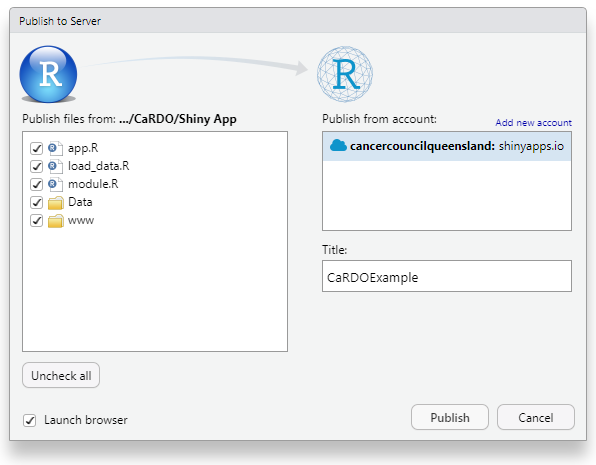
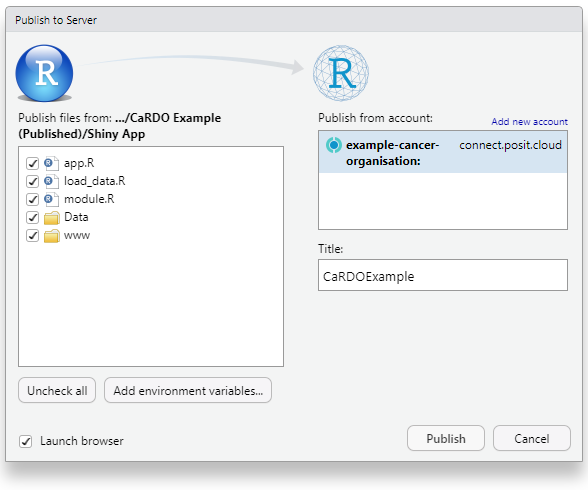
Add files via upload

Changed region(s): [[0.0, 0.0, 1.0, 0.9634]]

diff --git a/publishing.html b/publishing.html
@@ -214,33 +214,32 @@ div.csl-indent {
 <div id="publishing" class="section level1 hasAnchor" number="7">
 <h1><span class="header-section-number">Chapter 7</span> Publishing<a href="publishing.html#publishing" class="anchor-section" aria-label="Anchor link to header"></a></h1>
 <p>Once you have created a dashboard, you will need to decide how to publish it to allow users to access your dashboard and explore cancer patterns and trends.</p>
-<p>There are several options available, however, we recommend using <a href="https://www.shinyapps.io/" target="_blank">shinyapps.io</a>. ShinyApps.io is a cloud-based hosting platform by <a href="https://posit.co/" target="_blank">Posit</a> that allows users to easily deploy (within RStudio) and share <a href="https://shiny.posit.co/" target="_blank">Shiny</a> applications online without requiring server management. It offers multiple pricing tiers, including a free option, making it an accessible choice for individuals and small organizations.</p>
-<p>ShinyApps.io does have security limitations that you should be aware of - ShinyApps.io applications are run in a shared environment. This means that data flows <strong>outside</strong> of your infrastructure to reach the platform. For this reason, we <strong>do not recommend Shinyapps.io for highly sensitive data</strong>. This is why we stress confirming that your data is fit for public consumption <strong>before</strong> publishing your dashboard, and why <strong>CaRDO is specifically designed to handle sensitive data locally</strong>, before it is published. Cancer Council Queensland uses ShinyApps.io to publish their <a href="https://cancerqld.org.au/research/queensland-cancer-statistics/queensland-cancer-statistics-online-qcsol/" target="_blank">cancer statistics dashboard</a>.</p>
-<p>A detailed summary of alternative publishing options and their strengths and limitations is available <a href="https://www.appsilon.com/post/r-shiny-deployment" target="_blank">here</a></p>
-<div id="publishing-with-shinyapps.io" class="section level2 hasAnchor" number="7.1">
-<h2><span class="header-section-number">7.1</span> Publishing with Shinyapps.io<a href="publishing.html#publishing-with-shinyapps.io" class="anchor-section" aria-label="Anchor link to header"></a></h2>
-<p>A detailed guide to setting up a Shinyapps.io account and deploying your dashboard is published <a href="https://shiny.posit.co/r/articles/share/shinyapps/" target="_blank">here</a>. Deployment instructions are also provided upon account setup. Below we provide a summary of the key steps to follow.</p>
-<p><br>
-<strong>Step 1 - rsconnect</strong></p>
-<p>Shinyapps.io requires the latest version of rsconnect. Install the <code>rsconnect</code> package by running the following command in your Rstudio console.</p>
+<p>There are several options available, however, we recommend using <a href="https://connect.posit.cloud/">Posit Connect Cloud</a>. Connect Cloud is a cloud-based hosting platform by <a href="https://posit.co/">Posit</a> that allows users to easily publish (within RStudio) and share <a href="https://shiny.posit.co/">Shiny</a> applications online without requiring server management. It offers multiple pricing tiers, including a free option, making it an accessible choice for individuals and small organizations. Connect Cloud is also the new home for Posit’s earlier hosting service, shinyapps.io, which is being retired. If you have published a dashboard on shinyapps.io before, see Section <a href="publishing.html#already-using-shinyapps">7.2</a> at the end of this chapter.</p>
+<p>Connect Cloud does have security limitations that you should be aware of - Connect Cloud is a hosted platform. This means that your dashboard, and the data files it contains, are uploaded to and stored on servers <strong>outside</strong> of your infrastructure. On the free plan, dashboards are also <strong>publicly accessible</strong> to anyone with the link. For these reasons, we <strong>do not recommend Connect Cloud for highly sensitive data</strong>. This is why we stress confirming that your data is fit for public consumption <strong>before</strong> publishing your dashboard, and why <strong>CaRDO is specifically designed to handle sensitive data locally</strong>, before it is published. Cancer Council Queensland uses Posit’s hosting platforms to publish their <a href="https://cancerqld.org.au/research/queensland-cancer-statistics/queensland-cancer-statistics-online-qcsol/">cancer statistics dashboard</a>.</p>
+<p>Detailed summaries of alternative publishing options and their strengths and limitations are available <a href="https://www.appsilon.com/post/r-shiny-deployment">here</a> and <a href="https://shiny.posit.co/r/deploy.html">here</a></p>
+<div id="publishing-with-connect-cloud" class="section level2 hasAnchor" number="7.1">
+<h2><span class="header-section-number">7.1</span> Publishing with Connect Cloud<a href="publishing.html#publishing-with-connect-cloud" class="anchor-section" aria-label="Anchor link to header"></a></h2>
+<p>A detailed guide to publishing from within RStudio is available in the <a href="https://docs.posit.co/connect-cloud/user/publish/ide.html">Connect Cloud documentation</a>. Below we provide a summary of the key steps to follow. Everything is done from within RStudio and your web browser, so you don’t need any other tools.</p>
+<p>There are several ways to publish to Connect Cloud, so don’t be thrown if you see other approaches elsewhere. We’ll show you what we think is the simplest method: publishing directly from RStudio.</p>
+<p><strong>Step 1 - setup your account</strong></p>
+<p>To publish your dashboard, you’ll first need a free account on <a href="https://connect.posit.cloud/">Posit Connect Cloud</a> (you can upgrade to a paid plan later if necessary, more on this below). Several sign-up methods are available, but we recommend keeping it simply: email address and password.</p>
+<p><span style="color:red;">Important:</span> Connect Cloud includes your account name in the URL of everything you publish. Your public profile page, which lists all of your public content, lives at <code>https://connect.posit.cloud/[Account Name]</code> (for individual Free, Basic and Enhanced accounts), and anyone with the link can view it without logging in. Each dashboard is published at an address of the form <code>https://[Account Name]-[Application Name].share.connect.posit.cloud</code>. For this reason, we recommend making your account name something relevant to your registry or organisation that you wish to see in your dashboard URL. Cancer Council Queensland uses <code>cancercouncilqueensland</code>.</p>
+<p><img src="images/publish1_account.png" width="100%" style="padding:10px; border:2px solid;" /></p>
+<p>Once your account is set up, Connect Cloud will prompt you to publish your dashboard. Again, there are numerous methods and the choices can feel overwhelming - ignore them for now. Below, we walk you through our preferred approach: publishing through the RStudio console. Jump back into RStudio, but keep your Connect Cloud browser tab open.</p>
+<p><strong>Step 2 - Connect your account</strong></p>
+<p>We need to link RStudio to Connect Cloud. Install the latest <code>rsconnect</code> package by running this code in your RStudio console.</p>
 <div class="sourceCode" id="cb8"><pre class="sourceCode r"><code class="sourceCode r"><span id="cb8-1"><a href="publishing.html#cb8-1" tabindex="-1"></a><span class="fu">install.packages</span>(<span class="st">&#39;rsconnect&#39;</span>)</span></code></pre></div>
 <p>Once installed, load <code>rsconnect</code> into your R session.</p>
 <div class="sourceCode" id="cb9"><pre class="sourceCode r"><code class="sourceCode r"><span id="cb9-1"><a href="publishing.html#cb9-1" tabindex="-1"></a><span class="fu">library</span>(rsconnect)</span></code></pre></div>
-<p><br>
-<strong>Step 2 - setup account</strong></p>
-<p>To publish your dashboard through <a href="https://www.shinyapps.io/" target="_blank">shinyapps.io</a> you will need to sign up for an account. By default, all Shinyapps.io accounts are free with the option to upgrade to a paid service (more on this later).</p>
-<p>The first time you sign in, Shinyapps.io will prompt you to specify an account name. Shinyapps.io uses the account name as the domain name for all of your applications. <span style="color:red;">Important:</span> Shinyapps.io uses the account name you specify as the domain name for all your applications. Meaning, your account name will appear in the URL for your dashboard - for this reason, we recommend making your account name something relevant to your registry or organisation.</p>
-<p><img src="images/publish1_account.jpeg" width="100%" style="padding:10px; border:2px solid;" /></p>
-<p><br>
-<strong>Step 3 - authorize</strong></p>
-<p>Once you have setup an account, you will need to configure the <code>rsconnect</code> package to authorize your account. Shinyapps.io provides instructions on how to do this once you’ve setup an account. Copy and paste the R code shown in field into your R console and run the code.</p>
-<p><img src="images/token.jpeg" width="100%" style="padding:10px; border:2px solid;" /></p>
-<p><br>
-<strong>Step 4 - deploy/publish</strong></p>
-<p>You’re now ready to publish your CaRDO dashboard - there are two methods.</p>
-<p>You may run the following code, or alternatively, you may click the publish icon ( <img src="images/publishIcon.png" width="30" height="30" style="vertical-align:middle;"> ) in the top right corner, next to run.</p>
-<div class="sourceCode" id="cb10"><pre class="sourceCode r"><code class="sourceCode r"><span id="cb10-1"><a href="publishing.html#cb10-1" tabindex="-1"></a>rsconnect<span class="sc">::</span><span class="fu">deployApp</span>(<span class="st">&#39;path/to/your/app&#39;</span>)</span></code></pre></div>
-<p>Select the files to be published: Broadly, these will include your app.R file, any other data files, and any image and css (www folder) files. The specific files required for CaRDO are the following:</p>
+<p>Finally, make the connection by running the code below. When your browser opens, confirm the code matches the one in your RStudio console, then click <em>Continue</em> and <em>Authorize</em>. Note don’t share your link code with others - treat it like a password.</p>
+<div class="sourceCode" id="cb10"><pre class="sourceCode r"><code class="sourceCode r"><span id="cb10-1"><a href="publishing.html#cb10-1" tabindex="-1"></a>rsconnect<span class="sc">::</span><span class="fu">connectCloudUser</span>()</span></code></pre></div>
+<p><img src="images/publish3_connect.jpg" width="100%" style="padding:10px; border:2px solid;" /></p>
+<p><strong>Step 4 - deploy/publish</strong></p>
+<p>You’re now ready to publish your CaRDO dashboard! With your <code>app.R</code> file open, click the publish icon in the top right corner, next to run. Alternatively, you may run the code below.</p>
+<p><img src="images/publish_icon.png" width="100%" style="padding:10px; border:2px solid;" /></p>
+<div class="sourceCode" id="cb11"><pre class="sourceCode r"><code class="sourceCode r"><span id="cb11-1"><a href="publishing.html#cb11-1" tabindex="-1"></a>rsconnect<span class="sc">::</span><span class="fu">deployApp</span>(<span class="st">&#39;path/to/your/app&#39;</span>)</span></code></pre></div>
+<p>You should see your Posit Connect Cloud account in the right field.
+Select the files to be published: broadly, these will include your app.R file, any other data files, and any image and css (www folder) files. The specific files required for CaRDO are the following:</p>
 <ul>
 <li>app.R</li>
 <li>load_data.R</li>
@@ -249,26 +248,38 @@ div.csl-indent {
 <li>www</li>
 </ul>
 <p><img src="images/publish_files.png" width="100%" style="padding:10px; border:2px solid;" /></p>
-<p>Give your dashboard a name (this will appear in the URL!) and hit Publish - this will take a moment.</p>
-<p>And you’re done. Your cancer dashboard is ready to share!</p>
-<p><br></p>
-<div id="pricing" class="section level3 hasAnchor" number="7.1.1">
-<h3><span class="header-section-number">7.1.1</span> Pricing<a href="publishing.html#pricing" class="anchor-section" aria-label="Anchor link to header"></a></h3>
-<p>Shinyapps.io has a range of paid plans to suit different needs when deploying Shiny applications. By default, users can start with the free tier, which allows limited deployment with restrictions on active hours and resources. You can find more details on pricing tiers and available services <a href="https://www.shinyapps.io/" target="_blank">here</a></p>
-<p><br></p>
-</div>
-<div id="and-thats-a-wrap" class="section level3 hasAnchor" number="7.1.2">
-<h3><span class="header-section-number">7.1.2</span> And that’s a wrap!<a href="publishing.html#and-thats-a-wrap" class="anchor-section" aria-label="Anchor link to header"></a></h3>
+<p>Give your dashboard a name and hit Publish. The publishing process will take a moment. When it has finished, your web browser will open at your dashboard’s page within Connect Cloud. Your dashboard is now published! You can copy the dashboard specfic URL to view the dashboard outside of Posit Connect Cloud.</p>
+<p><strong>Step 5 - Customise URL</strong></p>
+<p>Before sharing, customise your URL. Annoyingly, the default is to publish your dashboard to a random character string - that won’t do for us. Select your dashboard in Connect Cloud and click settings in the top right <img src="images/publish_settings.png" />. Select URL on the left, toggle <code>Customize your URL</code> on and give your dashboard a URL name.</p>
+<div id="and-thats-a-wrap" class="section level3 hasAnchor" number="7.1.1">
+<h3><span class="header-section-number">7.1.1</span> And that’s a wrap<a href="publishing.html#and-thats-a-wrap" class="anchor-section" aria-label="Anchor link to header"></a></h3>
 <p>Your CaRDO dashboard is ready to share - communicate timely, population-level cancer statistics with clarity and purpose. Sharing this data helps raise awareness of cancer trends, highlight disparities, and inform evidence-based action across research, policy, and care.</p>
-<p>The remainder of this handbook provides details on <a href="updating-your-dashboard.html#updating-your-dashboard">updating</a> your CaRDO dashboard when new cancer data becomes available, CaRDO <a href="methods.html#methods">methods</a>, <a href="references.html#references">references</a>, and <a href="citation-contact.html#citation-contact">citation &amp; Contact</a> information. Once again, please reach out to us at <a href="mailto:statistics@cancerqld.org.au" class="email">statistics@cancerqld.org.au</a> if you have any questions, concerns or feedback - we’d love to hear from you.</p>
+<p>The remainder of this handbook provides details on <a href="updating-your-dashboard.html#updating-your-dashboard">updating</a> your CaRDO dashboard when new cancer data becomes available, CaRDO <a href="methods.html#methods">methods</a>, <a href="references.html#references">references</a>, and <a href="citation-contact.html#citation-contact">citation &amp; Contact</a> information. Once again, if you use CaRDO, please get in touch at <a href="mailto:statistics@cancerqld.org.au" class="email">statistics@cancerqld.org.au</a>. Knowing who uses CaRDO helps us demonstrate its impact and secure future funding. We’d also love to hear any questions, concerns or feedback you might have.</p>
 <p>Thank you for using CaRDO.</p>
+</div>
+<div id="pricing" class="section level3 hasAnchor" number="7.1.2">
+<h3><span class="header-section-number">7.1.2</span> Pricing<a href="publishing.html#pricing" class="anchor-section" aria-label="Anchor link to header"></a></h3>
+<p>A quick note on pricing. Connect Cloud has a range of plans to suit different needs. By default, users can start with the free plan, which allows limited deployment with restrictions on the number of applications, active hours and compute resources. Paid plans increase these limits and add features such as private sharing. Note that on the free plan your dashboard is <strong>always publicly accessible</strong> - we assume this is not a concern, as CaRDO dashbaords are designed to share population-level statistics with a broad audience. You can find more details on plans and pricing <a href="https://connect.posit.cloud/plans">here</a>.</p>
+<p>The free plan is well suited to trying things out and to small, low-traffic dashboards. For small to medium-sized organisations running dashboards in regular use, we’d expect the Basic plan to be the practical starting point. The CaRDO software is free and open source, but reliable hosting at scale usually isn’t, so budget for this early on. Where alternative low-cost hosting options become available, we will aim to update them here.</p>
+</div>
+</div>
+<div id="already-using-shinyapps" class="section level2 hasAnchor" number="7.2">
+<h2><span class="header-section-number">7.2</span> Already using shinyapps.io?<a href="publishing.html#already-using-shinyapps" class="anchor-section" aria-label="Anchor link to header"></a></h2>
+<p>If you have previously published a CaRDO dashboard on shinyapps.io, or already have a shinyapps.io account, there is something you should know: Posit is retiring shinyapps.io and moving all of its users to Connect Cloud. Your dashboard will not disappear overnight and you do not need to take any action right now. In brief, here is what to expect:</p>
+<ul>
+<li><strong>You choose how and when you move.</strong> Posit provides a self-serve migration tool in Connect Cloud. You link your shinyapps.io account, select your dashboard, and test it on Connect Cloud before you finalize the move. If you would rather not use the tool, Posit will migrate accounts automatically in waves during 2027: free accounts from 28 January 2027, Starter and Basic accounts from 31 March 2027, and Standard and Pro accounts from 30 June 2027.</li>
+<li><strong>Your links keep working.</strong> Once a dashboard has been migrated, its old shinyapps.io address will redirect to its new home on Connect Cloud, so links you have already shared will not break.</li>
+<li><strong>Most dashboards will run unchanged.</strong> We recommend testing yours on Connect Cloud before finalizing the move.</li>
+<li><strong>Paid plans carry over.</strong> Posit will give you an equivalent Connect Cloud plan at no charge, and your current pricing is retained. If you pay for shinyapps.io, do not cancel your subscription until the migration is complete.</li>
+<li><strong>Updating from RStudio.</strong> If you have been updating your dashboard using the publish button in RStudio, note that migrating does not change where RStudio publishes to - it will keep sending updates to shinyapps.io until you repoint it. Posit explains how in <a href="https://docs.posit.co/connect-cloud/user/shinyapps-migration.html#update-your-rsconnect-deployment-records">their migration guide</a>.</li>
+</ul>
+<p>Full details, including timelines, plan mapping and troubleshooting, are available in Posit’s <a href="https://docs.posit.co/shinyapps.io/guide/migration/">migration guide</a>. These details were correct at the time of writing, but Posit may update them, so please check the guide for the latest information. We will also add step-by-step instructions for migrating a CaRDO dashboard to a future version of this handbook.</p>
 <p><br>
 <span style="font-size:25px;"><a href="updating-your-dashboard.html#updating-your-dashboard">Updating Your Dashboard</a></span></p>
 <p><span style="font-size:25px;"><a href="methods.html#methods">Methods</a></span></p>
 <p><span style="font-size:25px;"><a href="references.html#references">References</a></span></p>
 <p><span style="font-size:25px;"><a href="citation-contact.html#citation-contact">Citation &amp; Contact</a></span></p>
 
-</div>
 </div>
 </div>
             </section>

diff --git a/quick-setup.html b/quick-setup.html
@@ -216,10 +216,10 @@ div.csl-indent {
 <p>For those with R experience and no time for manuals.</p>
 <p><br>
 1. CaRDO requires the following packages installed before launching</p>
-<div class="sourceCode" id="cb11"><pre class="sourceCode r"><code class="sourceCode r"><span id="cb11-1"><a href="quick-setup.html#cb11-1" tabindex="-1"></a><span class="fu">install.packages</span>(<span class="st">&quot;remotes&quot;</span>)</span>
-<span id="cb11-2"><a href="quick-setup.html#cb11-2" tabindex="-1"></a><span class="fu">install.packages</span>(<span class="st">&quot;tidyverse&quot;</span>)</span>
-<span id="cb11-3"><a href="quick-setup.html#cb11-3" tabindex="-1"></a><span class="fu">install.packages</span>(<span class="st">&quot;plotly&quot;</span>)</span>
-<span id="cb11-4"><a href="quick-setup.html#cb11-4" tabindex="-1"></a><span class="fu">install.packages</span>(<span class="st">&quot;markdown&quot;</span>)</span></code></pre></div>
+<div class="sourceCode" id="cb12"><pre class="sourceCode r"><code class="sourceCode r"><span id="cb12-1"><a href="quick-setup.html#cb12-1" tabindex="-1"></a><span class="fu">install.packages</span>(<span class="st">&quot;remotes&quot;</span>)</span>
+<span id="cb12-2"><a href="quick-setup.html#cb12-2" tabindex="-1"></a><span class="fu">install.packages</span>(<span class="st">&quot;tidyverse&quot;</span>)</span>
+<span id="cb12-3"><a href="quick-setup.html#cb12-3" tabindex="-1"></a><span class="fu">install.packages</span>(<span class="st">&quot;plotly&quot;</span>)</span>
+<span id="cb12-4"><a href="quick-setup.html#cb12-4" tabindex="-1"></a><span class="fu">install.packages</span>(<span class="st">&quot;markdown&quot;</span>)</span></code></pre></div>
 <ol start="2" style="list-style-type: decimal">
 <li>There are <strong>three</strong> key requirements for all cancer datasets loaded into CaRDO.</li>
 </ol>
@@ -231,11 +231,11 @@ div.csl-indent {
 <ol start="3" style="list-style-type: decimal">
 <li>Download CaRDO from GitHub using</li>
 </ol>
-<div class="sourceCode" id="cb12"><pre class="sourceCode r"><code class="sourceCode r"><span id="cb12-1"><a href="quick-setup.html#cb12-1" tabindex="-1"></a>remotes<span class="sc">::</span><span class="fu">install_github</span>(<span class="st">&quot;https://github.com/CCQResearch/CaRDO&quot;</span>, <span class="at">dependencies =</span> <span class="cn">TRUE</span>)</span></code></pre></div>
+<div class="sourceCode" id="cb13"><pre class="sourceCode r"><code class="sourceCode r"><span id="cb13-1"><a href="quick-setup.html#cb13-1" tabindex="-1"></a>remotes<span class="sc">::</span><span class="fu">install_github</span>(<span class="st">&quot;https://github.com/CCQResearch/CaRDO&quot;</span>, <span class="at">dependencies =</span> <span class="cn">TRUE</span>)</span></code></pre></div>
 <ol start="4" style="list-style-type: decimal">
 <li>Load CaRDO using</li>
 </ol>
-<div class="sourceCode" id="cb13"><pre class="sourceCode r"><code class="sourceCode r"><span id="cb13-1"><a href="quick-setup.html#cb13-1" tabindex="-1"></a>CaRDO<span class="sc">::</span><span class="fu">create_dashboard</span>()</span></code></pre></div>
+<div class="sourceCode" id="cb14"><pre class="sourceCode r"><code class="sourceCode r"><span id="cb14-1"><a href="quick-setup.html#cb14-1" tabindex="-1"></a>CaRDO<span class="sc">::</span><span class="fu">create_dashboard</span>()</span></code></pre></div>
 <ol start="5" style="list-style-type: decimal">
 <li>Follow the prompts and build your dashboard</li>
 </ol>
@@ -248,7 +248,8 @@ div.csl-indent {
 <li>Open your app.R file and run the script.<br />
 </li>
 </ol>
-<div class="sourceCode" id="cb14"><pre class="sourceCode r"><code class="sourceCode r"><span id="cb14-1"><a href="quick-setup.html#cb14-1" tabindex="-1"></a><span class="fu">file.edit</span>(<span class="st">&#39;your/working/directory/app.R&#39;</span>)</span></code></pre></div>
+<div class="sourceCode" id="cb15"><pre class="sourceCode r"><code class="sourceCode r"><span id="cb15-1"><a href="quick-setup.html#cb15-1" tabindex="-1"></a><span class="fu">file.edit</span>(<span class="st">&#39;your/working/directory/app.R&#39;</span>)</span></code></pre></div>
+<p>Learn how to publish your dashboard <a href="publishing.html#publishing">here</a>.</p>
 
 </div>
             </section>

diff --git a/index.html b/index.html
@@ -224,6 +224,7 @@ div.csl-indent {
 <strong>Ca</strong>ncer <strong>R</strong>egistry <strong>D</strong>ata <strong>O</strong>nline</p>
 <p>Welcome to <strong>CaRDO</strong> – an easy-to-use <em>R package</em> that helps you turn complex cancer statistics into clear, interactive dashboards. With CaRDO, you don’t need to be an R or Shiny expert—anyone can quickly create web-based tools to explore and share population-level cancer data. It’s designed to be simple, visual, and secure, making it easy to communicate important cancer insights while keeping sensitive <a href="methods.html#data-privacy">data protected</a>.</p>
 <p>Click <a href="https://cancercouncilqueensland.shinyapps.io/CaRDOExample/" target="_blank">here</a> to see an example dashboard created with <strong>CaRDO</strong></p>
+<p>We welcome use by cancer registries and organisations, especially in low-resource settings. If your organisation requires customisations or enhancements to the base product, please contact us (<a href="mailto:statistics@cancerqld.org.au" class="email">statistics@cancerqld.org.au</a>) to discuss potential cost-recovery arrangements. Finally, please get in touch if you use CaRDO or have feedback — we’d love to hear from you! Knowing who uses CaRDO helps us demonstrate its impact and secure future funding.</p>
 <div id="licence" class="section level2 hasAnchor" number="1.1">
 <h2><span class="header-section-number">1.1</span> Licence<a href="index.html#licence" class="anchor-section" aria-label="Anchor link to header"></a></h2>
 <p>The CaRDO software and associated materials are made available under the Creative Commons Attribution-NonCommercial-ShareAlike 4.0 International Licence (CC BY-NC-SA 4.0).</p>
@@ -241,7 +242,6 @@ div.csl-indent {
 <li><p><strong>NonCommercial</strong> - You may not use the material for commercial purposes without prior written permission.</p></li>
 <li><p><strong>ShareAlike</strong> - If you remix, transform, or build upon the material, you must distribute your contributions under the same licence (CC BY-NC-SA 4.0). This ensures that any derivative works remain freely available under the same terms, supporting open collaboration and equitable access especially for low-resource cancer registries.</p></li>
 </ul>
-<p>We welcome use by cancer registries and organisations, especially in low-resource settings. If your organisation requires customisations or enhancements to the base product, please contact us (<a href="mailto:statistics@cancerqld.org.au" class="email">statistics@cancerqld.org.au</a>) to discuss potential cost-recovery arrangements. Finally, please get in touch if you use CaRDO or have feedback — we’d love to hear from you! Knowing who uses CaRDO helps us demonstrate its impact and secure future funding.</p>
 <p><br>
 <span style="font-size:22px;float:centre;"><a href="get-started.html#get-started">Get started</a></span></p>
 

diff --git a/updating-your-dashboard.html b/updating-your-dashboard.html
@@ -214,8 +214,8 @@ div.csl-indent {
 <div id="updating-your-dashboard" class="section level1 hasAnchor" number="9">
 <h1><span class="header-section-number">Chapter 9</span> Updating Your Dashboard<a href="updating-your-dashboard.html#updating-your-dashboard" class="anchor-section" aria-label="Anchor link to header"></a></h1>
 <p>Updating your CaRDO dashboard when new cancer data is available is straightforward. It simply requires repeating the steps outlined on the <a href="cardo-example.html#cardo-example">CaRDO Example</a> and <a href="publishing.html#publishing">Publishing</a> pages each time a new cancer extract is available.</p>
-<p>Laucch CaRDO using the command below and load your new cancer data when prompted by the interface - the same steps you previously worked through to build your CaRDO dashboard.</p>
-<div class="sourceCode" id="cb15"><pre class="sourceCode r"><code class="sourceCode r"><span id="cb15-1"><a href="updating-your-dashboard.html#cb15-1" tabindex="-1"></a>CaRDO<span class="sc">::</span><span class="fu">create_dashboard</span>()</span></code></pre></div>
+<p>Launch CaRDO using the command below and load your new cancer data when prompted by the interface - the same steps you previously worked through to build your CaRDO dashboard. If you haven’t published for a while, we recommend reinstalling the CaRDO package to ensure you’re using the latest version and can take advantage of any new features and improvements.</p>
+<div class="sourceCode" id="cb16"><pre class="sourceCode r"><code class="sourceCode r"><span id="cb16-1"><a href="updating-your-dashboard.html#cb16-1" tabindex="-1"></a>CaRDO<span class="sc">::</span><span class="fu">create_dashboard</span>()</span></code></pre></div>
 <p>We recommend publishing updates to a draft / testing version to inspect for errors or inconsistencies before updating the public facing dashboard. Once you’re comfortable with the update, republish the testing version to the public facing dashboard. For example, if your dashboard is called <em>‘/CaRDOExample’</em>, you might initially publish your update to a second dashboard called <em>‘/CaRDOExample_draft’</em> and keep that link internal. Once you’re confident the data in the dashboard is accurate, then republish the update to your primary dashboard <em>‘/CaRDOExample’</em>.</p>
 <p>In addition to updating cancer data, be sure to update any population files that may require updating when new cancer data becomes available.</p>
 

diff --git a/install-cardo.html b/install-cardo.html
@@ -238,7 +238,7 @@ To install the CaRDO package, copy and paste the following code into your RStudi
 </ul>
 <p><br>
 You’ve installed CaRDO!</p>
-<p>The next step is to launch CaRDO and begin building your dashboard. We <em>strongly</em> recommend new users start with our simple <a href="cardo-example.html#cardo-example">CaRDO Example</a>. The CaRDO example provides a quick and structured way to explore CaRDO’s functionality using example data. Using the example data first will help you understand the process and see what’s possible before working with your own data, which will require some careful preparation to meet specific requirements. If you do not wish work through a quick example, you may skip ahead to <a href="data-requirements.html#data-requirements">Data Requirements</a> and begin preparing your data.</p>
+<p>The next step is to launch CaRDO and begin building your dashboard. We <em>strongly</em> recommend new users start with our simple <a href="cardo-example.html#cardo-example">CaRDO Example</a>. The CaRDO example provides a quick and structured way to explore CaRDO’s functionality using example data. Using the example data first will help you understand the process and see what’s possible before working with your own data, which will require some careful preparation to meet specific requirements. If you do not wish to work through a quick example, you may skip ahead to <a href="data-requirements.html#data-requirements">Data Requirements</a> and begin preparing your data.</p>
 <p><br>
 <span style="font-size:22px;"><a href="cardo-example.html#cardo-example">CaRDO Example</a></span></p>
 
